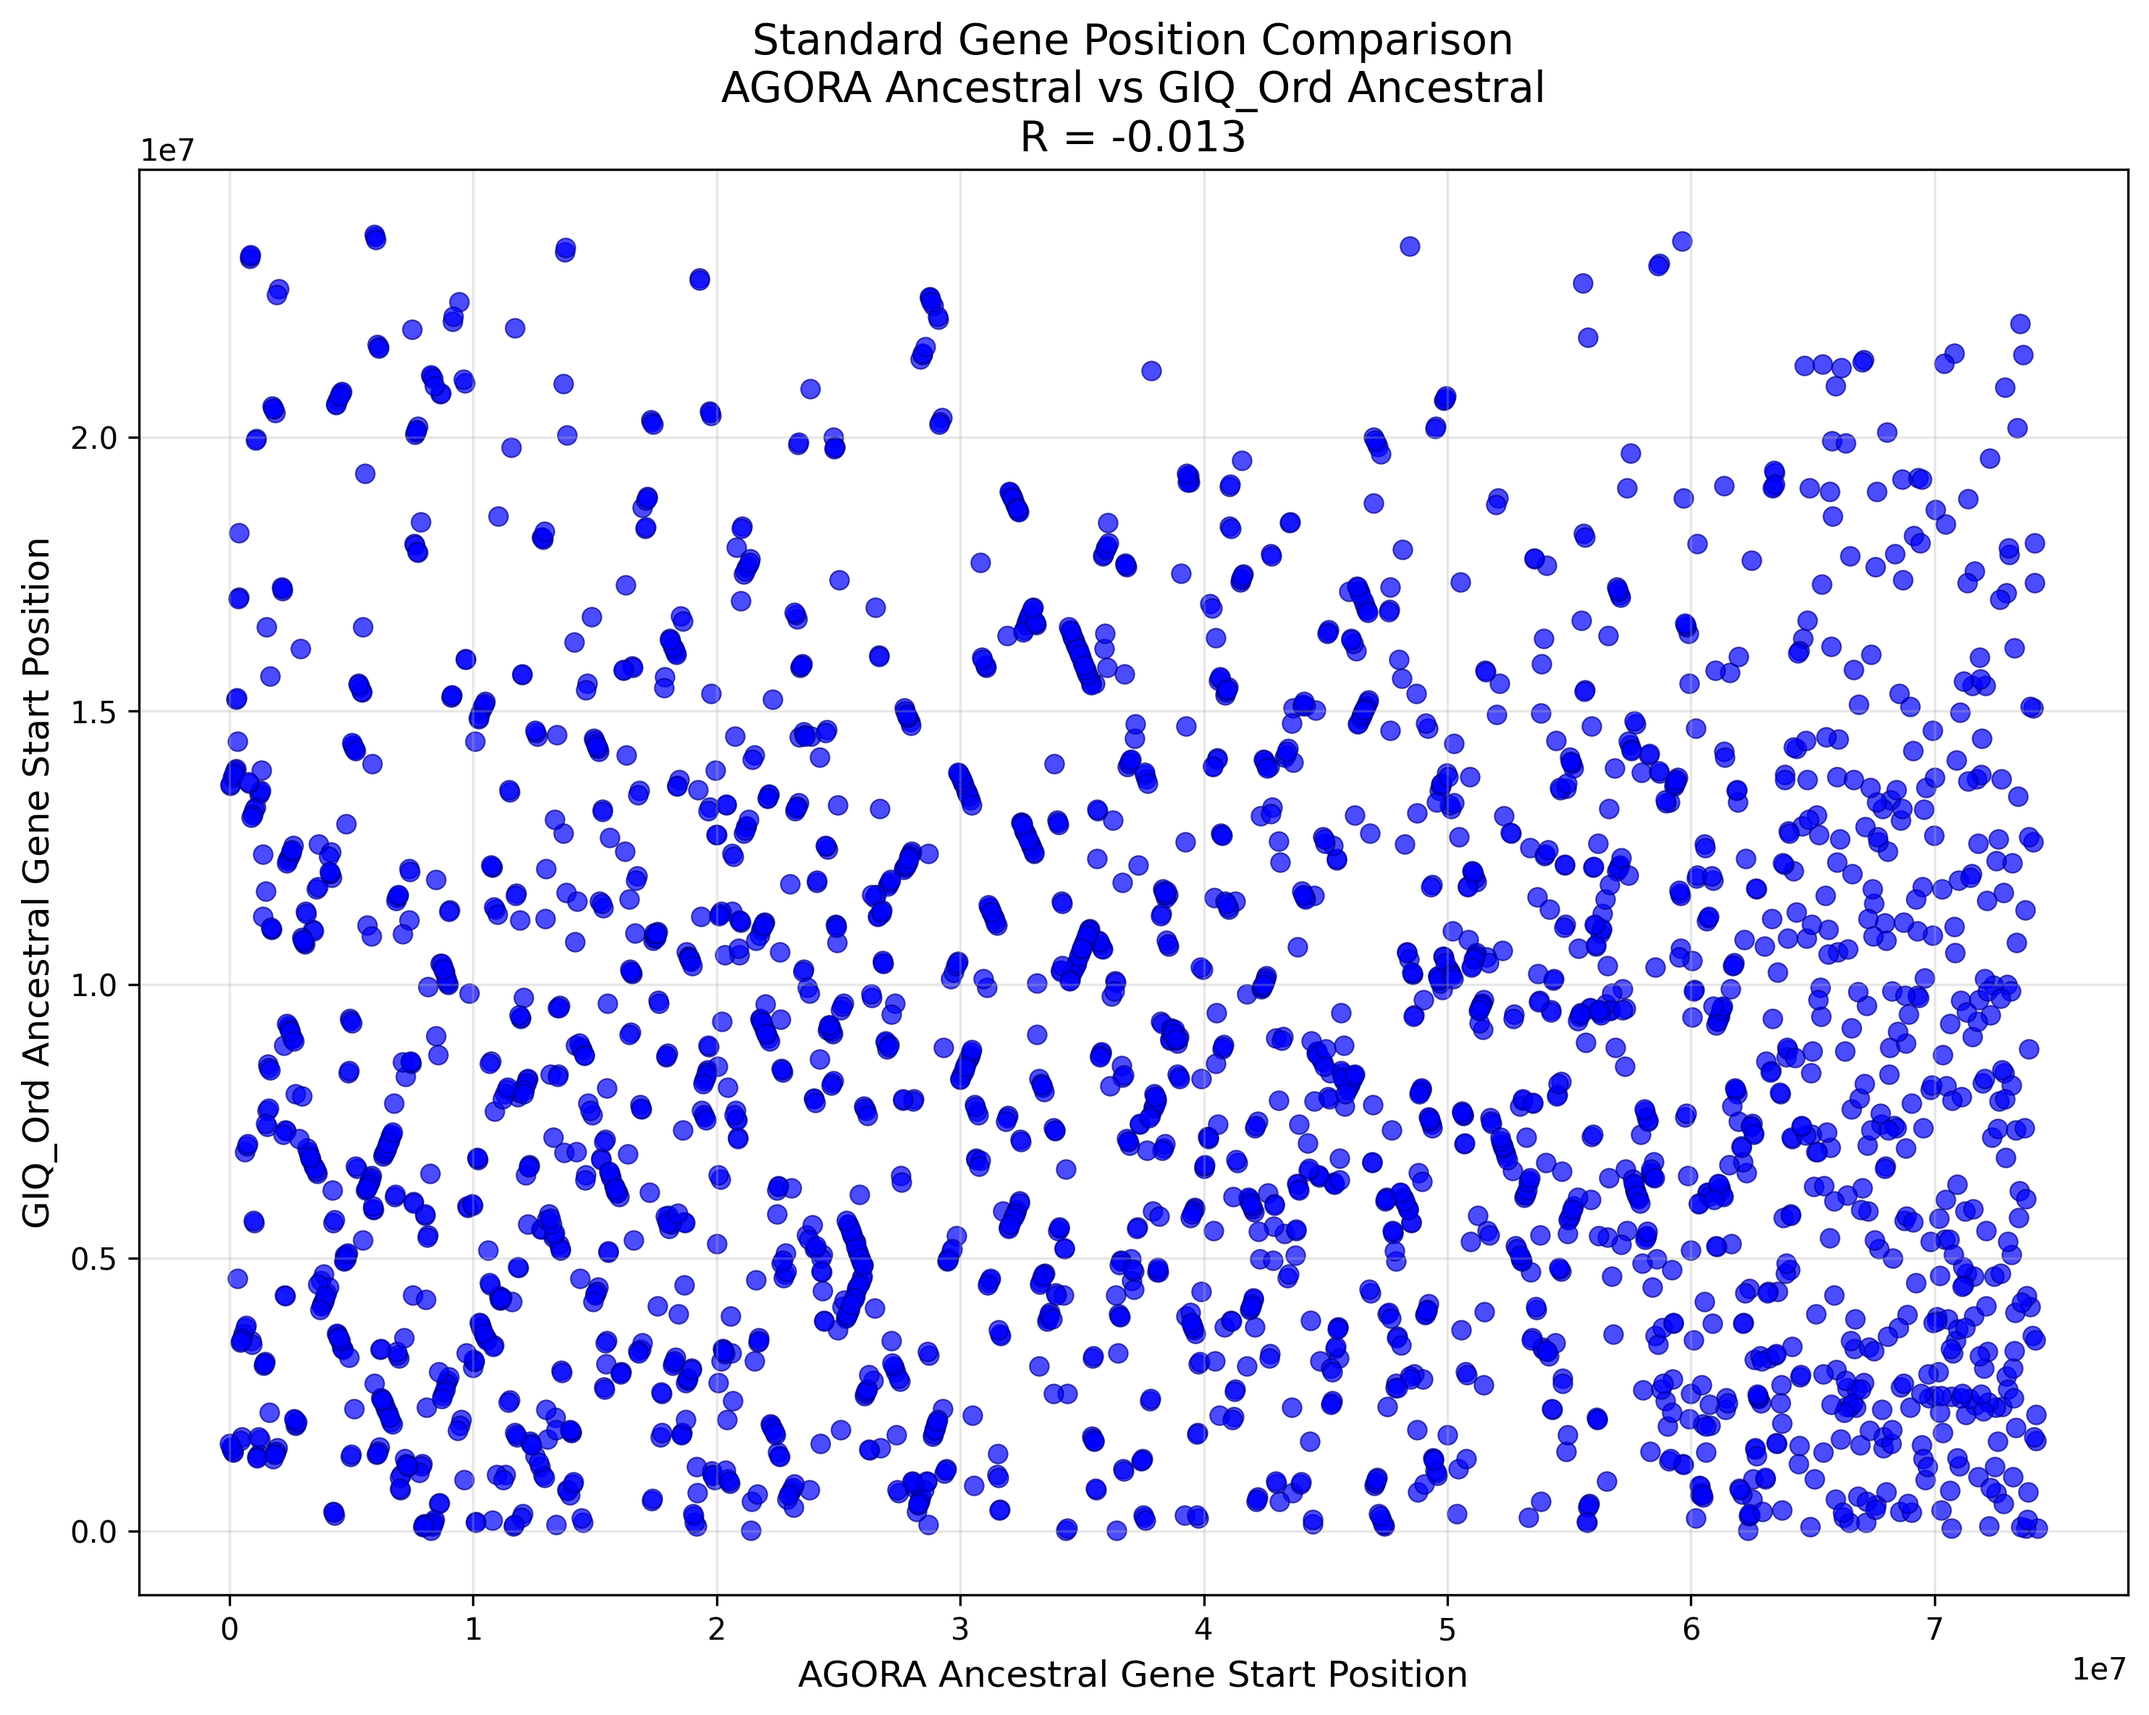
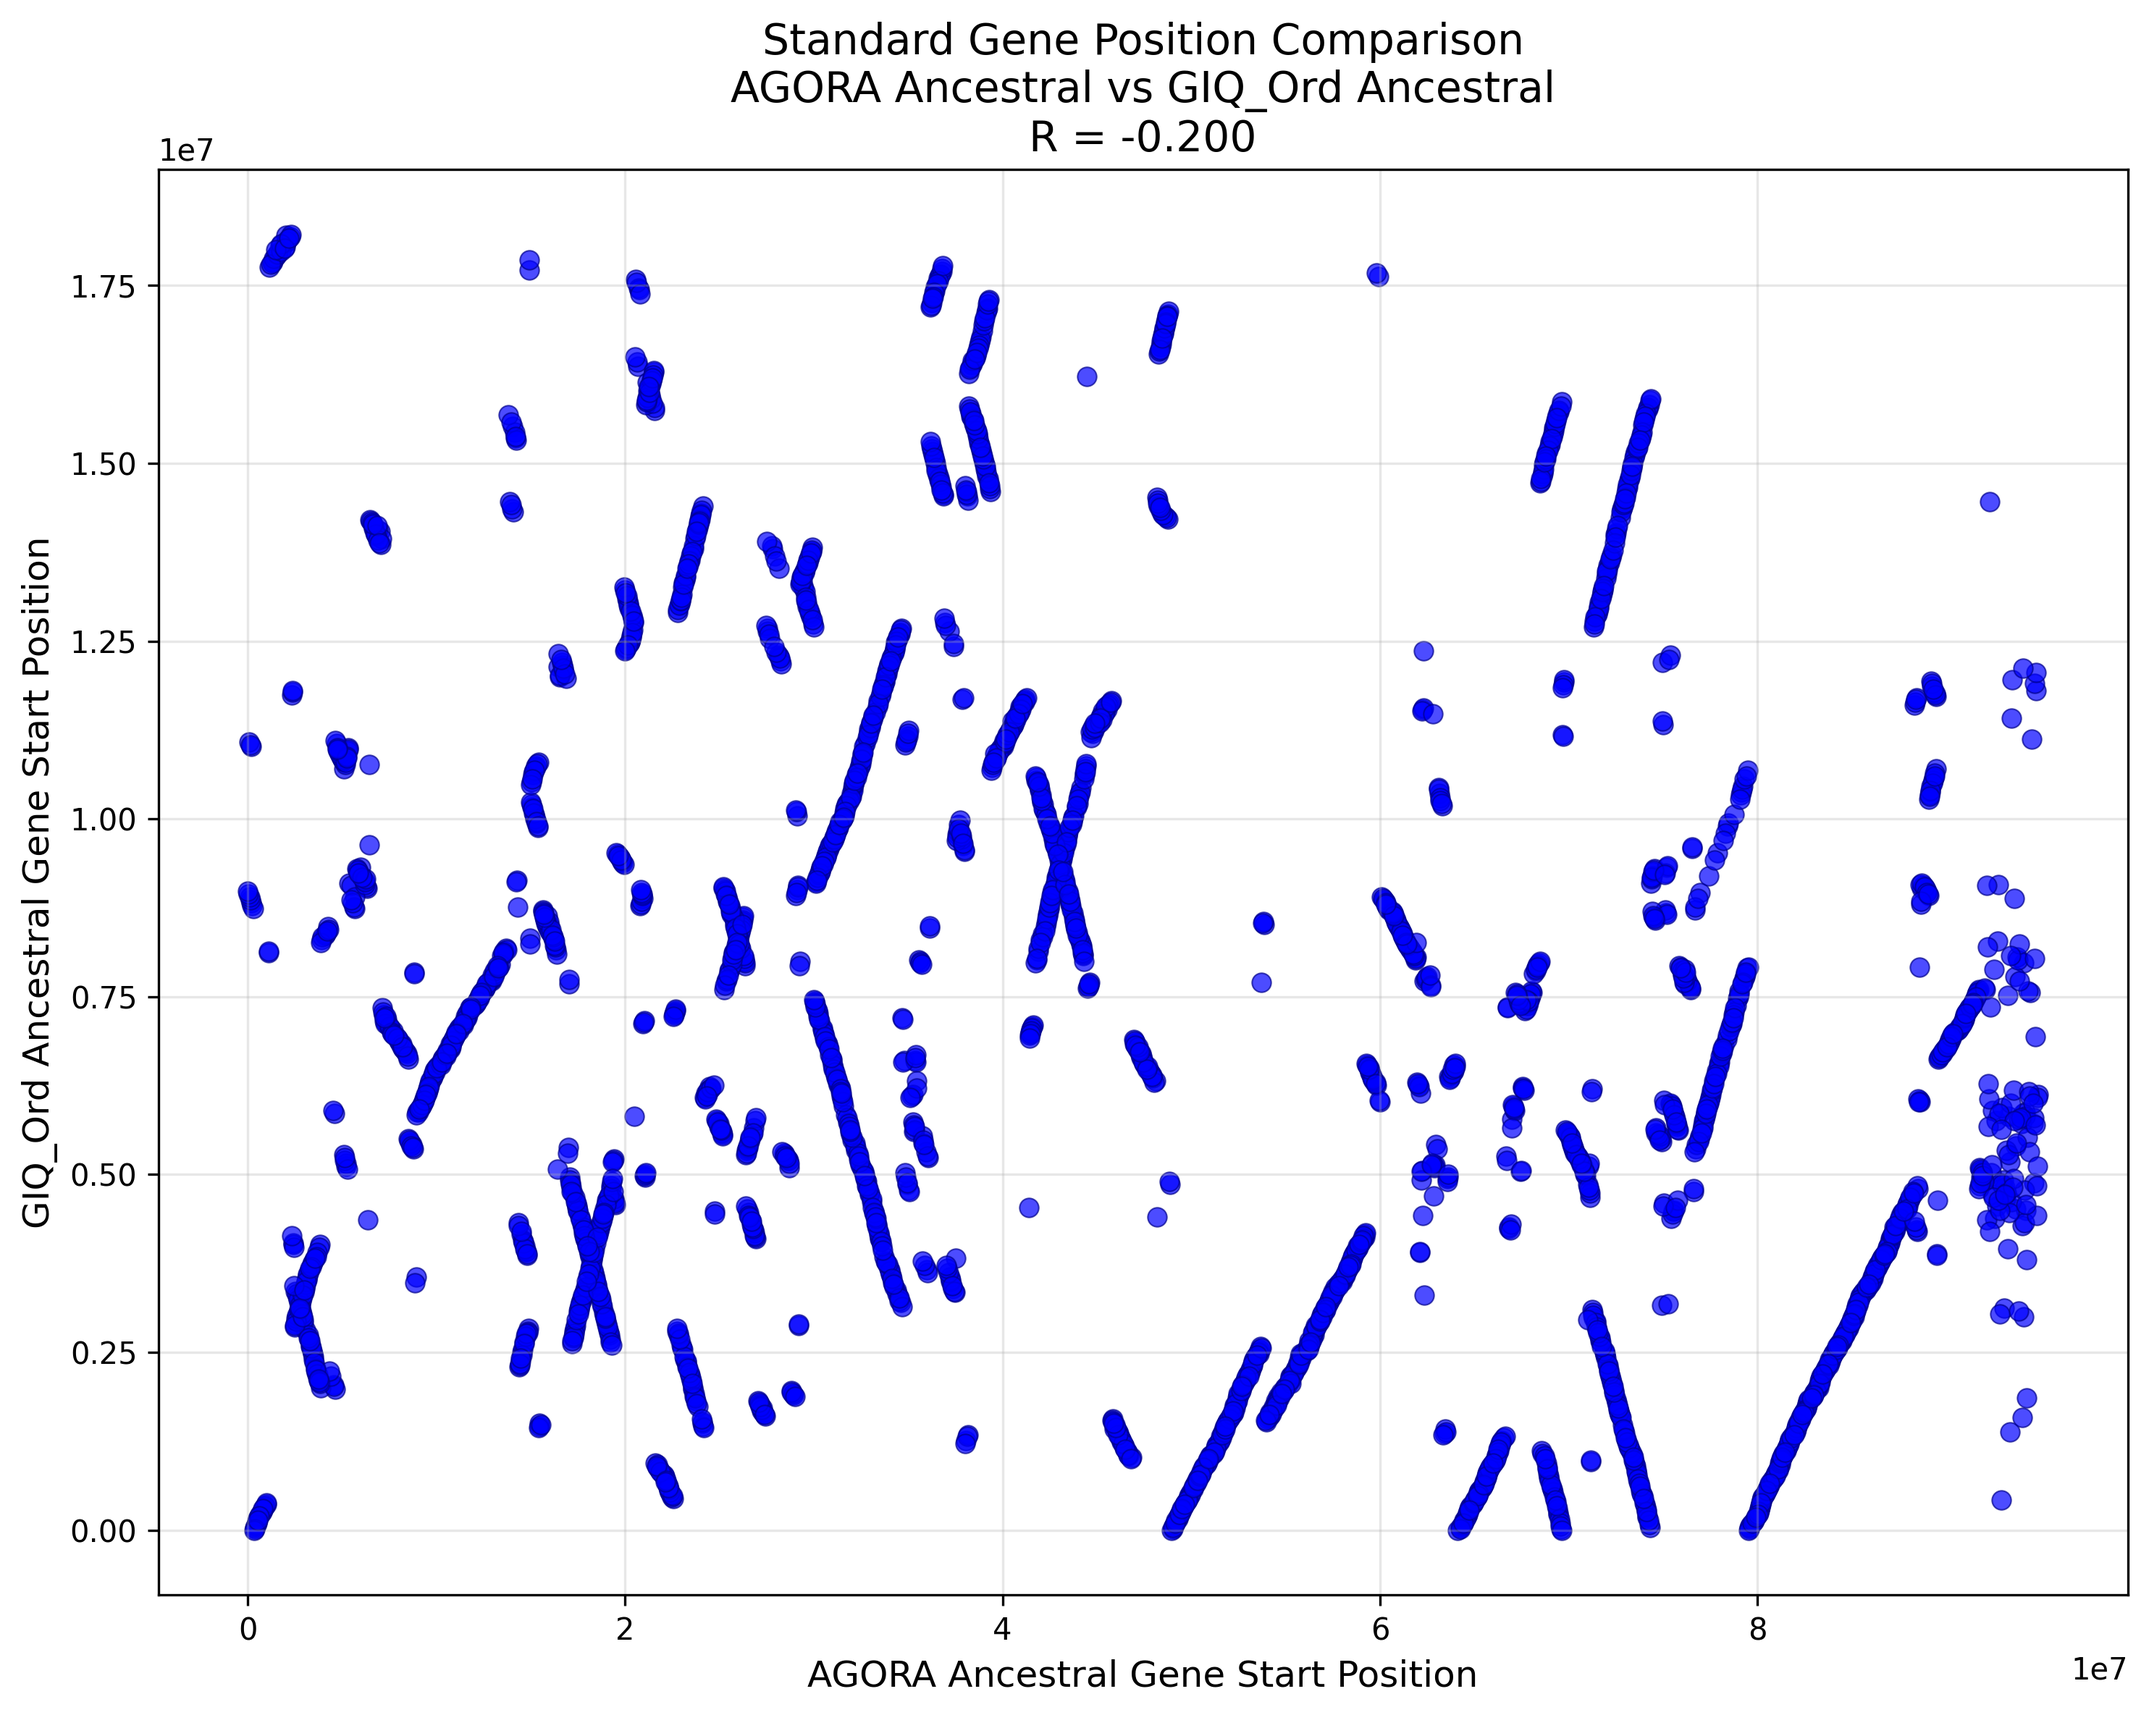
.

diff --git a/markov_to_csv.py b/markov_to_csv.py
@@ -7,10 +7,12 @@ Usage:
 python3 markov_to_csv.py \
     comparison_output/stages/6a_positional_profile.csv \
     comparison_output/stages/6b_ordinal_profile.csv \
-    ancestral_positional.tsv \
-    ancestral_ordinal.tsv \
+    compare/root_giq_ancestral_positional.tsv \
+    compare/root_giq_ancestral_ordinal.tsv \
     --min-genes 400 \
-    --freq-threshold 0.7
+    --freq-threshold 0.5 \
+    --bin-size 20 \
+    --rank-spacing 20
 """
 
 import pandas as pd
@@ -267,8 +269,26 @@ def extract_ordinal_profile(ordinal_csv, output_tsv, min_genes=500, freq_thresho
         
         print(f"  {chromosome}: {len(chr_genes)} genes")
         
-        for _, gene in chr_genes.iterrows():
-            start_pos = int(gene['rank_number'] * rank_spacing_kb * 1000)
+        # for _, gene in chr_genes.iterrows():
+        #     start_pos = int(gene['rank_number'] * rank_spacing_kb * 1000)
+        #     end_pos = start_pos + (rank_spacing_kb * 1000)
+            
+        #     busco_entries.append({
+        #         'busco_id': gene['busco_id'],
+        #         'status': 'Complete',
+        #         'sequence': chromosome,
+        #         'gene_start': start_pos,
+        #         'gene_end': end_pos,
+        #         'strand': '+',
+        #         'score': gene['frequency_ratio'] * 100,  # Convert to percentage
+        #         'length': rank_spacing_kb * 1000,
+        #         'frequency': gene['frequency_ratio'],
+        #         'genome_count': f"{gene['genome_count']}/{gene['total_genomes']}",
+        #         'rank': gene['rank_number']
+        #     })
+        
+        for rank_idx, (_, gene) in enumerate(chr_genes.iterrows()):
+            start_pos = rank_idx * rank_spacing_kb * 1000  # Sequential: 0, 20000, 40000...
             end_pos = start_pos + (rank_spacing_kb * 1000)
             
             busco_entries.append({
@@ -278,11 +298,11 @@ def extract_ordinal_profile(ordinal_csv, output_tsv, min_genes=500, freq_thresho
                 'gene_start': start_pos,
                 'gene_end': end_pos,
                 'strand': '+',
-                'score': gene['frequency_ratio'] * 100,  # Convert to percentage
+                'score': gene['frequency_ratio'] * 100,
                 'length': rank_spacing_kb * 1000,
                 'frequency': gene['frequency_ratio'],
                 'genome_count': f"{gene['genome_count']}/{gene['total_genomes']}",
-                'rank': gene['rank_number']
+                'rank': rank_idx  # Sequential rank: 0, 1, 2, 3...
             })
     
     busco_df = pd.DataFrame(busco_entries)
